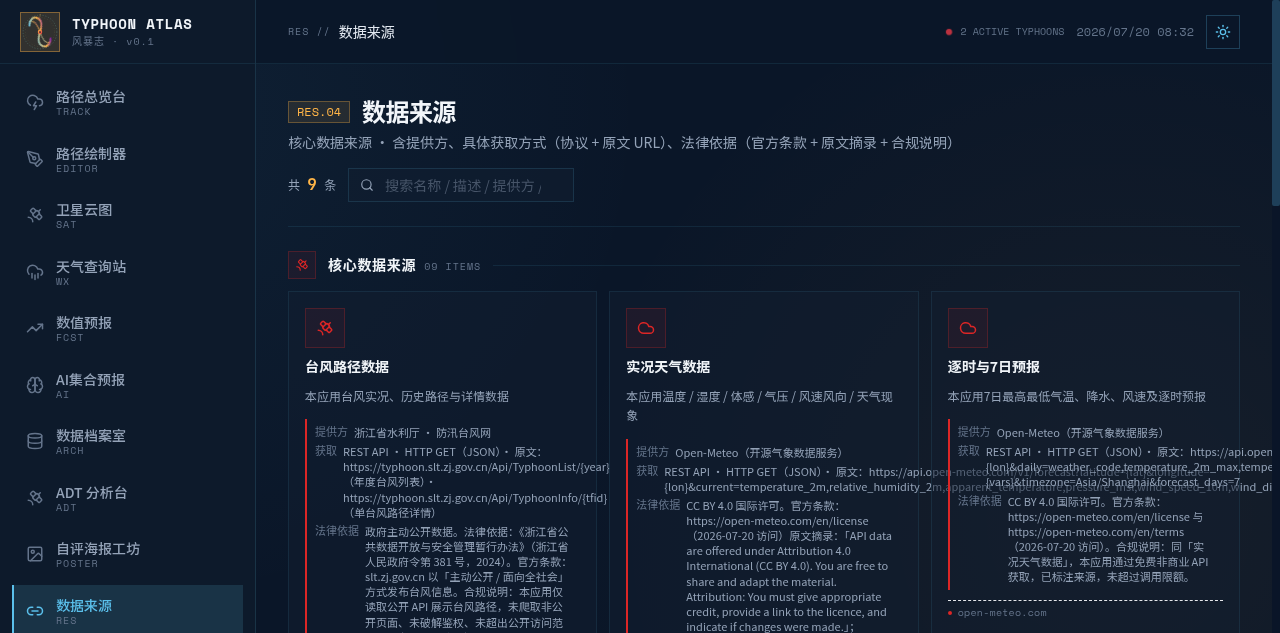
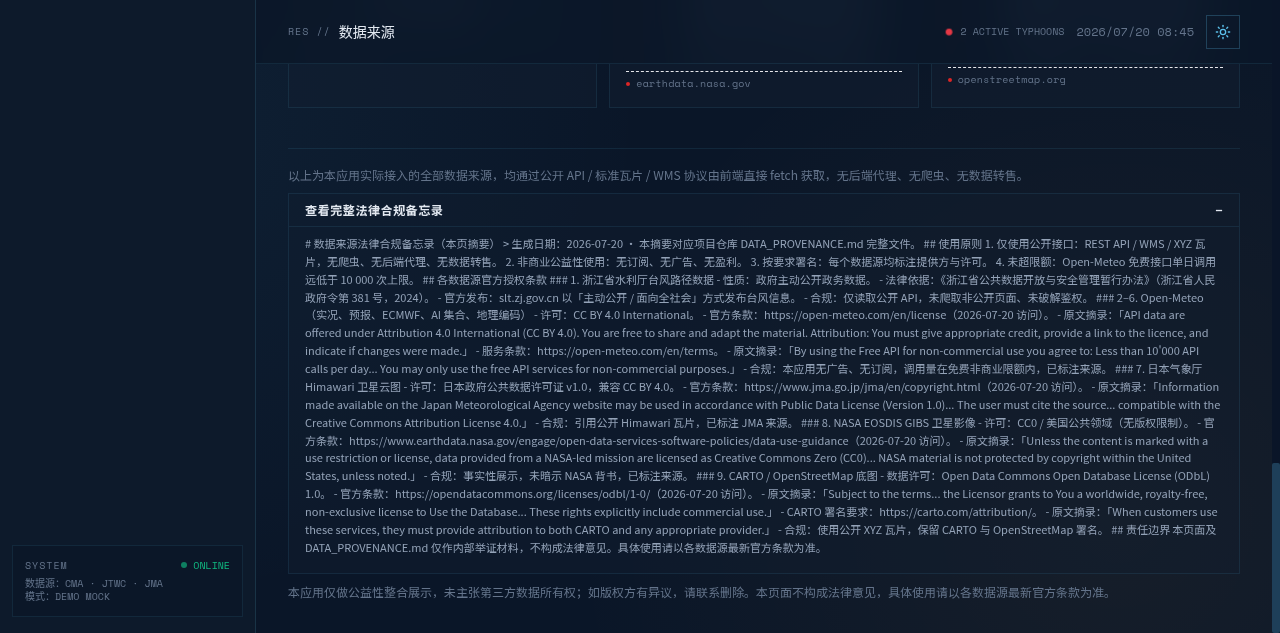
修复数据来源页卡片溢出问题并在页面展示法律备忘录
- 卡片与容器添加 min-w-0 / overflow-hidden / break-words，防止长 URL 与法律依据文本撑破卡片
- 法律依据字段保留完整官方条款 URL、原文摘录、合规说明
- 页尾新增「查看完整法律合规备忘录」折叠面板，点击展开页面内完整法律摘要
- 折叠面板含：使用原则、各数据源官方授权条款、责任边界
- 更新浏览器验证截图 data-source-evidence-2026-07-20.png

diff --git a/public/typhoon-atlas/assets/ResourcesPage-BguFfHTi.js b/public/typhoon-atlas/assets/ResourcesPage-BguFfHTi.js
@@ -13,4 +13,53 @@ import{c as E,u as b,j as e,b as s,h as D,W as j}from"./index-B_e_Vg8A.js";impor
  *
  * This source code is licensed under the ISC license.
  * See the LICENSE file in the root directory of this source tree.
- */const k=[["path",{d:"M16 21v-2a4 4 0 0 0-4-4H6a4 4 0 0 0-4 4v2",key:"1yyitq"}],["path",{d:"M16 3.128a4 4 0 0 1 0 7.744",key:"16gr8j"}],["path",{d:"M22 21v-2a4 4 0 0 0-3-3.87",key:"kshegd"}],["circle",{cx:"9",cy:"7",r:"4",key:"nufk8"}]],M=E("users",k),B={activity:P,wind:j,cloud:N,globe:S,users:M,satellite:D},C={核心数据来源:{icon:"satellite",accent:"#DC2626"}},m=[{category:"核心数据来源",items:[{name:"台风路径数据",url:"https://typhoon.slt.zj.gov.cn/",desc:"本应用台风实况、历史路径与详情数据",icon:"satellite",provider:"浙江省水利厅 · 防汛台风网",method:"REST API · HTTP GET（JSON）· 原文：https://typhoon.slt.zj.gov.cn/Api/TyphoonList/{year}（年度台风列表）· https://typhoon.slt.zj.gov.cn/Api/TyphoonInfo/{tfid}（单台风路径详情）",license:"政府主动公开数据。法律依据：《浙江省公共数据开放与安全管理暂行办法》（浙江省人民政府令第 381 号，2024）。官方条款：slt.zj.gov.cn 以「主动公开 / 面向全社会」方式发布台风信息。合规说明：本应用仅读取公开 API 展示台风路径，未爬取非公开页面、未破解鉴权、未超出公开访问范围，已在页面标注来源。"},{name:"实况天气数据",url:"https://open-meteo.com/",desc:"本应用温度 / 湿度 / 体感 / 气压 / 风速风向 / 天气现象",icon:"cloud",provider:"Open-Meteo（开源气象数据服务）",method:"REST API · HTTP GET（JSON）· 原文：https://api.open-meteo.com/v1/forecast?latitude={lat}&longitude={lon}&current=temperature_2m,relative_humidity_2m,apparent_temperature,pressure_msl,wind_speed_10m,wind_direction_10m,weather_code&timezone=Asia/Shanghai",license:"CC BY 4.0 国际许可。官方条款：https://open-meteo.com/en/license（2026-07-20 访问）原文摘录：「API data are offered under Attribution 4.0 International (CC BY 4.0). You are free to share and adapt the material. Attribution: You must give appropriate credit, provide a link to the licence, and indicate if changes were made.」；https://open-meteo.com/en/terms 原文摘录：「By using the Free API for non-commercial use you agree to: Less than 10'000 API calls per day... You may only use the free API services for non-commercial purposes.」合规说明：本应用为无广告、无订阅的公益性展示，单日调用量远低于 10 000 次上限，页面已按 CC BY 4.0 标注来源。"},{name:"逐时与7日预报",url:"https://open-meteo.com/",desc:"本应用7日最高最低气温、降水、风速及逐时预报",icon:"cloud",provider:"Open-Meteo（开源气象数据服务）",method:"REST API · HTTP GET（JSON）· 原文：https://api.open-meteo.com/v1/forecast?latitude={lat}&longitude={lon}&daily=weather_code,temperature_2m_max,temperature_2m_min,precipitation_sum,wind_speed_10m_max&hourly={vars}&timezone=Asia/Shanghai&forecast_days=7",license:"CC BY 4.0 国际许可。官方条款：https://open-meteo.com/en/license 与 https://open-meteo.com/en/terms（2026-07-20 访问）。合规说明：同「实况天气数据」，本应用通过免费非商业 API 获取，已标注来源，未超过调用限额。"},{name:"ECMWF 数值模式",url:"https://open-meteo.com/",desc:"本应用数值预报页 ECMWF IFS 0.25° 模式逐时预报",icon:"activity",provider:"Open-Meteo（转接 ECMWF 开放数据）",method:"REST API · HTTP GET（JSON）· 原文：https://api.open-meteo.com/v1/forecast?latitude={lat}&longitude={lon}&hourly={vars}&timezone=Asia/Shanghai&models=ecmwf_ifs025&forecast_days=7",license:"CC BY 4.0 国际许可（Open-Meteo）+ ECMWF Open Data Licence。官方条款：https://open-meteo.com/en/license 与 https://www.ecmwf.int/en/forecasts/datasets/open-data（2026-07-20 访问）。合规说明：本应用使用 Open-Meteo 免费非商业接口转接 ECMWF IFS 开放数据，按要求在页面标注 ECMWF / Open-Meteo 来源。"},{name:"AI 集合预报",url:"https://open-meteo.com/",desc:"本应用 AI 集合预报页 ICON Seamless 模式集合预报",icon:"activity",provider:"Open-Meteo（转接 DWD ICON Seamless 集合模式）",method:"REST API · HTTP GET（JSON）· 原文：https://ensemble-api.open-meteo.com/v1/ensemble?latitude={lat}&longitude={lon}&models=icon_seamless&hourly={vars}&timezone=Asia/Shanghai",license:"CC BY 4.0 国际许可（Open-Meteo）+ DWD 开放数据 CC-BY 许可。官方条款：https://open-meteo.com/en/license（2026-07-20 访问）。合规说明：本应用使用 Open-Meteo 免费非商业 ensemble API，按要求标注来源。"},{name:"地名地理编码",url:"https://open-meteo.com/",desc:"本应用天气页城市 / 地点名搜索",icon:"globe",provider:"Open-Meteo（开源地理编码服务）",method:"REST API · HTTP GET（JSON）· 原文：https://geocoding-api.open-meteo.com/v1/search?name={name}&count=6&language=zh&format=json",license:"CC BY 4.0 国际许可。官方条款：https://open-meteo.com/en/license（2026-07-20 访问）。合规说明：本应用使用 Open-Meteo Geocoding 免费接口进行中文地名搜索，已标注来源。"},{name:"向日葵卫星云图",url:"https://www.jma.go.jp/bosai/himawari/",desc:"本应用真彩色 / 可见光 / 红外 / 水汽云图（JMA 源）",icon:"satellite",provider:"日本气象厅（JMA）Himawari-8/9",method:"REST JSON 清单 + XYZ 瓦片协议 · HTTP GET（PNG）· 原文：https://www.jma.go.jp/bosai/himawari/data/satimg/targetTimes_fd.json（时间表清单）· https://www.jma.go.jp/bosai/himawari/data/satimg/{basetime}/{validtime}/{z}/{x}/{y}.png（瓦片影像）",license:"日本政府公共数据许可证 v1.0，兼容 CC BY 4.0。官方条款：https://www.jma.go.jp/jma/en/copyright.html（2026-07-20 访问）原文摘录：「Information made available on the Japan Meteorological Agency website may be used in accordance with Public Data License (Version 1.0)... The user must cite the source... The Terms of Use are compatible with the Creative Commons Attribution License 4.0.」合规说明：本应用仅引用 JMA 公开 Himawari 瓦片，已在页面标注「日本气象厅（JMA）Himawari-8/9」来源。"},{name:"NASA 卫星影像",url:"https://earthdata.nasa.gov/gibs",desc:"本应用 MODIS 真彩色 / 水汽 / 降水率影像（NASA 源）",icon:"satellite",provider:"NASA EOSDIS GIBS（全球影像服务）",method:"OGC WMS 协议 · HTTP GET（PNG）· 原文：https://gibs.earthdata.nasa.gov/wms/epsg4326/best/wms.cgi?SERVICE=WMS&REQUEST=GetMap&VERSION=1.3.0&LAYERS={layer}&CRS=EPSG:4326&FORMAT=image/png",license:"NASA 公共领域 / CC0（无版权限制）。官方条款：https://www.earthdata.nasa.gov/engage/open-data-services-software-policies/data-use-guidance（2026-07-20 访问）原文摘录：「Unless the content is marked with a use restriction or license, data provided from a NASA-led mission are licensed as Creative Commons Zero (CC0). While there are no restrictions on the use of these data, data users are very strongly urged to cite the data used... NASA material is not protected by copyright within the United States, unless noted.」合规说明：本应用以事实性方式展示 NASA GIBS 影像，未暗示 NASA 背书，已标注 NASA 为数据来源。"},{name:"地图底图",url:"https://www.openstreetmap.org/copyright",desc:"本应用暗色 / 亮色地图底图瓦片",icon:"globe",provider:"CARTO + OpenStreetMap 贡献者",method:"XYZ 瓦片协议（Leaflet TileLayer）· HTTP GET（PNG）· 原文：https://{s}.basemaps.cartocdn.com/dark_all/{z}/{x}/{y}{r}.png · https://{s}.basemaps.cartocdn.com/light_all/{z}/{x}/{y}{r}.png",license:"ODbL 1.0（OpenStreetMap 数据库许可）+ CARTO 署名要求。官方条款：https://opendatacommons.org/licenses/odbl/1-0/ 与 https://carto.com/attribution/（2026-07-20 访问）原文摘录：「Subject to the terms... the Licensor grants to You a worldwide, royalty-free, non-exclusive license to Use the Database... These rights explicitly include commercial use.」CARTO：「When customers use these services, they must provide attribution to both CARTO and any appropriate provider.」合规说明：本应用通过公开 XYZ 瓦片使用 CARTO 底图，页面保留 CARTO 与 OpenStreetMap 署名；OSM 数据在 ODbL 下允许共享与展示。"}]}];function L(p){try{return new URL(p).hostname.replace(/^www\./,"")}catch{return p}}const _=A.memo(function({item:t,accent:a,isLight:c}){const o=B[t.icon]||S;return e.jsxs("a",{href:t.url,target:"_blank",rel:"noopener noreferrer",className:s("group relative flex flex-col gap-2.5 p-4 border transition-all duration-200","hover:-translate-y-0.5 hover:shadow-lg focus:outline-none focus-visible:ring-2",c?"bg-white/70 border-slate-200 hover:border-slate-300 focus-visible:ring-blue-400":"bg-abyss-200/50 border-ice/10 hover:border-ice/30 focus-visible:ring-ice/40"),style:{"--accent":a},title:`${t.name} · ${t.desc}`,children:[e.jsxs("div",{className:"flex items-start justify-between",children:[e.jsx("span",{className:"inline-flex items-center justify-center w-10 h-10 border",style:{color:a,borderColor:`${a}40`,backgroundColor:`${a}14`},children:e.jsx(o,{size:18})}),e.jsx(v,{size:14,className:s("transition-opacity duration-200",c?"text-slate-400":"text-slate-500","opacity-0 group-hover:opacity-100"),style:{color:a}})]}),e.jsx("h3",{className:s("text-sm font-bold leading-tight",c?"text-slate-900":"text-slate-100"),children:t.name}),e.jsx("p",{className:s("text-xs leading-relaxed line-clamp-2",c?"text-slate-500":"text-slate-400"),children:t.desc}),e.jsxs("div",{className:s("flex flex-col gap-1 mt-1 px-2 py-1.5 border-l-2 text-[11px] leading-snug",c?"bg-slate-50/60 border-slate-200 text-slate-600":"bg-abyss-200/30 border-ice/20 text-slate-400"),style:{borderLeftColor:a},children:[e.jsxs("div",{className:"flex gap-1.5",children:[e.jsx("span",{className:s("font-mono shrink-0",c?"text-slate-400":"text-slate-500"),children:"提供方"}),e.jsx("span",{className:"flex-1 break-all",children:t.provider})]}),e.jsxs("div",{className:"flex gap-1.5",children:[e.jsx("span",{className:s("font-mono shrink-0",c?"text-slate-400":"text-slate-500"),children:"获取"}),e.jsx("span",{className:"flex-1 break-all",children:t.method})]}),e.jsxs("div",{className:"flex gap-1.5",children:[e.jsx("span",{className:s("font-mono shrink-0",c?"text-slate-400":"text-slate-500"),children:"法律依据"}),e.jsx("span",{className:"flex-1 break-all",children:t.license})]})]}),e.jsxs("div",{className:"flex items-center gap-1.5 pt-1 border-t border-dashed border-current/10",children:[e.jsx("span",{className:"inline-block w-1 h-1 rounded-full",style:{backgroundColor:a}}),e.jsx("span",{className:s("font-mono text-[10px] tracking-wide truncate",c?"text-slate-400":"text-slate-500"),children:L(t.url)})]})]})}),$=A.memo(function({cat:t,isLight:a}){const c=C[t.category],o=(c==null?void 0:c.accent)??"#DC2626",i=B[(c==null?void 0:c.icon)??"satellite"];return e.jsxs("section",{className:"space-y-3",children:[e.jsxs("div",{className:"flex items-center gap-3",children:[e.jsx("span",{className:"inline-flex items-center justify-center w-7 h-7 border",style:{color:o,borderColor:`${o}40`,backgroundColor:`${o}14`},children:e.jsx(i,{size:14})}),e.jsxs("div",{className:"flex items-baseline gap-2",children:[e.jsx("h2",{className:s("font-mono text-sm font-bold uppercase tracking-wider",a?"text-slate-900":"text-slate-100"),children:t.category}),e.jsxs("span",{className:s("font-mono text-[10px] tracking-widest",a?"text-slate-400":"text-slate-500"),children:[String(t.items.length).padStart(2,"0")," ITEMS"]})]}),e.jsx("div",{className:s("flex-1 h-px",a?"bg-slate-200":"bg-ice/10")})]}),e.jsx("div",{className:"grid grid-cols-1 sm:grid-cols-2 lg:grid-cols-3 gap-3",children:t.items.map(l=>e.jsx(_,{item:l,accent:o,isLight:a},l.url))})]})});function U(){const t=b(r=>r.theme)==="light",[a,c]=A.useState(""),o=t?"text-slate-800":"text-slate-200",i=t?"text-slate-500":"text-slate-400",l="text-slate-500",f=t?"bg-white border-slate-300 text-slate-800 placeholder:text-slate-400 focus:border-blue-400":"bg-abyss-200/60 border-ice/15 text-slate-200 placeholder:text-slate-600 focus:border-ice/40",u=A.useMemo(()=>{const r=a.trim().toLowerCase();return r?m.map(n=>({...n,items:n.items.filter(d=>d.name.toLowerCase().includes(r)||d.desc.toLowerCase().includes(r)||n.category.toLowerCase().includes(r)||(d.provider||"").toLowerCase().includes(r)||(d.method||"").toLowerCase().includes(r)||(d.license||"").toLowerCase().includes(r))})).filter(n=>n.items.length>0):m},[a]),g=m.reduce((r,n)=>r+n.items.length,0),y=u.reduce((r,n)=>r+n.items.length,0),x=a.trim().length>0;return e.jsxs("div",{className:s("animate-fade-in",o),children:[e.jsxs("div",{className:s("flex items-end justify-between flex-wrap gap-4 pb-6 border-b mb-6",t?"border-slate-200":"border-ice/10"),children:[e.jsxs("div",{className:"flex flex-col gap-1",children:[e.jsxs("div",{className:"flex items-center gap-3",children:[e.jsx("span",{className:s("font-mono text-xs px-2 py-0.5 border",t?"bg-amber-50 text-amber-700 border-amber-300":"text-storm bg-storm/10 border-storm/30"),children:"RES.04"}),e.jsx("h1",{className:s("font-mono text-2xl font-bold tracking-tight",t?"text-slate-900":"text-slate-100"),children:"数据来源"})]}),e.jsx("p",{className:s("text-sm max-w-2xl",i),children:"核心数据来源 · 含提供方、具体获取方式（协议 + 原文 URL）、法律依据（官方条款 + 原文摘录 + 合规说明）"})]}),e.jsxs("div",{className:"flex items-center gap-3 flex-wrap",children:[e.jsxs("span",{className:s("font-mono text-xs",i),children:["共 ",e.jsx("span",{className:"text-storm digit-xl text-base",children:x?y:g})," 条",x&&e.jsxs("span",{className:l,children:[" / ",g]})]}),e.jsxs("div",{className:"flex items-center gap-2 relative",children:[e.jsx(h,{size:14,className:s("absolute left-3",i)}),e.jsx("input",{value:a,onChange:r=>c(r.target.value),placeholder:"搜索名称 / 描述 / 提供方 / 获取方式 / 法律依据...",className:s("pl-9 pr-8 py-1.5 border text-sm focus:outline-none w-72",f)}),x&&e.jsx("button",{onClick:()=>c(""),className:s("absolute right-2 text-xs px-1",i,"hover:text-storm"),title:"清除","aria-label":"清除搜索",children:"×"})]})]})]}),u.length>0?e.jsx("div",{className:"space-y-8",children:u.map(r=>e.jsx($,{cat:r,isLight:t},r.category))}):e.jsxs("div",{className:s("flex flex-col items-center justify-center py-20 gap-3 border border-dashed",t?"border-slate-300 text-slate-400":"border-ice/15 text-slate-500"),children:[e.jsx(h,{size:32,className:"opacity-40"}),e.jsx("p",{className:"font-mono text-sm",children:"未找到匹配的数据来源"}),e.jsx("button",{onClick:()=>c(""),className:"btn-ghost text-xs",children:"清除搜索"})]}),e.jsxs("div",{className:s("mt-10 pt-4 border-t space-y-2 text-xs leading-relaxed",t?"border-slate-200 text-slate-500":"border-ice/10 text-slate-500"),children:[e.jsx("p",{children:"以上为本应用实际接入的全部数据来源，均通过公开 API / 标准瓦片 / WMS 协议由前端直接 fetch 获取，无后端代理、无爬虫、无数据转售。"}),e.jsx("p",{children:"各卡片已列明：提供方、获取方式（含协议与原文 URL）、法律依据（含官方条款 URL、原文摘录及合规说明）。完整法律备忘录见项目仓库 DATA_PROVENANCE.md。"}),e.jsx("p",{children:"本应用仅做公益性整合展示，未主张第三方数据所有权；如版权方有异议，请联系删除。本页面不构成法律意见，具体使用请以各数据源最新官方条款为准。"})]})]})}export{U as ResourcesPage};
+ */const k=[["path",{d:"M16 21v-2a4 4 0 0 0-4-4H6a4 4 0 0 0-4 4v2",key:"1yyitq"}],["path",{d:"M16 3.128a4 4 0 0 1 0 7.744",key:"16gr8j"}],["path",{d:"M22 21v-2a4 4 0 0 0-3-3.87",key:"kshegd"}],["circle",{cx:"9",cy:"7",r:"4",key:"nufk8"}]],M=E("users",k),B={activity:P,wind:j,cloud:N,globe:S,users:M,satellite:D},C={核心数据来源:{icon:"satellite",accent:"#DC2626"}},m=[{category:"核心数据来源",items:[{name:"台风路径数据",url:"https://typhoon.slt.zj.gov.cn/",desc:"本应用台风实况、历史路径与详情数据",icon:"satellite",provider:"浙江省水利厅 · 防汛台风网",method:"REST API · HTTP GET（JSON）· 原文：https://typhoon.slt.zj.gov.cn/Api/TyphoonList/{year}（年度台风列表）· https://typhoon.slt.zj.gov.cn/Api/TyphoonInfo/{tfid}（单台风路径详情）",license:"政府主动公开数据。法律依据：《浙江省公共数据开放与安全管理暂行办法》（浙江省人民政府令第 381 号，2024）。官方条款：slt.zj.gov.cn 以「主动公开 / 面向全社会」方式发布台风信息。合规说明：本应用仅读取公开 API 展示台风路径，未爬取非公开页面、未破解鉴权、未超出公开访问范围，已在页面标注来源。"},{name:"实况天气数据",url:"https://open-meteo.com/",desc:"本应用温度 / 湿度 / 体感 / 气压 / 风速风向 / 天气现象",icon:"cloud",provider:"Open-Meteo（开源气象数据服务）",method:"REST API · HTTP GET（JSON）· 原文：https://api.open-meteo.com/v1/forecast?latitude={lat}&longitude={lon}&current=temperature_2m,relative_humidity_2m,apparent_temperature,pressure_msl,wind_speed_10m,wind_direction_10m,weather_code&timezone=Asia/Shanghai",license:"CC BY 4.0 国际许可。官方条款：https://open-meteo.com/en/license（2026-07-20 访问）原文摘录：「API data are offered under Attribution 4.0 International (CC BY 4.0). You are free to share and adapt the material. Attribution: You must give appropriate credit, provide a link to the licence, and indicate if changes were made.」；https://open-meteo.com/en/terms 原文摘录：「By using the Free API for non-commercial use you agree to: Less than 10'000 API calls per day... You may only use the free API services for non-commercial purposes.」合规说明：本应用为无广告、无订阅的公益性展示，单日调用量远低于 10 000 次上限，页面已按 CC BY 4.0 标注来源。"},{name:"逐时与7日预报",url:"https://open-meteo.com/",desc:"本应用7日最高最低气温、降水、风速及逐时预报",icon:"cloud",provider:"Open-Meteo（开源气象数据服务）",method:"REST API · HTTP GET（JSON）· 原文：https://api.open-meteo.com/v1/forecast?latitude={lat}&longitude={lon}&daily=weather_code,temperature_2m_max,temperature_2m_min,precipitation_sum,wind_speed_10m_max&hourly={vars}&timezone=Asia/Shanghai&forecast_days=7",license:"CC BY 4.0 国际许可。官方条款：https://open-meteo.com/en/license 与 https://open-meteo.com/en/terms（2026-07-20 访问）。合规说明：同「实况天气数据」，本应用通过免费非商业 API 获取，已标注来源，未超过调用限额。"},{name:"ECMWF 数值模式",url:"https://open-meteo.com/",desc:"本应用数值预报页 ECMWF IFS 0.25° 模式逐时预报",icon:"activity",provider:"Open-Meteo（转接 ECMWF 开放数据）",method:"REST API · HTTP GET（JSON）· 原文：https://api.open-meteo.com/v1/forecast?latitude={lat}&longitude={lon}&hourly={vars}&timezone=Asia/Shanghai&models=ecmwf_ifs025&forecast_days=7",license:"CC BY 4.0 国际许可（Open-Meteo）+ ECMWF Open Data Licence。官方条款：https://open-meteo.com/en/license 与 https://www.ecmwf.int/en/forecasts/datasets/open-data（2026-07-20 访问）。合规说明：本应用使用 Open-Meteo 免费非商业接口转接 ECMWF IFS 开放数据，按要求在页面标注 ECMWF / Open-Meteo 来源。"},{name:"AI 集合预报",url:"https://open-meteo.com/",desc:"本应用 AI 集合预报页 ICON Seamless 模式集合预报",icon:"activity",provider:"Open-Meteo（转接 DWD ICON Seamless 集合模式）",method:"REST API · HTTP GET（JSON）· 原文：https://ensemble-api.open-meteo.com/v1/ensemble?latitude={lat}&longitude={lon}&models=icon_seamless&hourly={vars}&timezone=Asia/Shanghai",license:"CC BY 4.0 国际许可（Open-Meteo）+ DWD 开放数据 CC-BY 许可。官方条款：https://open-meteo.com/en/license（2026-07-20 访问）。合规说明：本应用使用 Open-Meteo 免费非商业 ensemble API，按要求标注来源。"},{name:"地名地理编码",url:"https://open-meteo.com/",desc:"本应用天气页城市 / 地点名搜索",icon:"globe",provider:"Open-Meteo（开源地理编码服务）",method:"REST API · HTTP GET（JSON）· 原文：https://geocoding-api.open-meteo.com/v1/search?name={name}&count=6&language=zh&format=json",license:"CC BY 4.0 国际许可。官方条款：https://open-meteo.com/en/license（2026-07-20 访问）。合规说明：本应用使用 Open-Meteo Geocoding 免费接口进行中文地名搜索，已标注来源。"},{name:"向日葵卫星云图",url:"https://www.jma.go.jp/bosai/himawari/",desc:"本应用真彩色 / 可见光 / 红外 / 水汽云图（JMA 源）",icon:"satellite",provider:"日本气象厅（JMA）Himawari-8/9",method:"REST JSON 清单 + XYZ 瓦片协议 · HTTP GET（PNG）· 原文：https://www.jma.go.jp/bosai/himawari/data/satimg/targetTimes_fd.json（时间表清单）· https://www.jma.go.jp/bosai/himawari/data/satimg/{basetime}/{validtime}/{z}/{x}/{y}.png（瓦片影像）",license:"日本政府公共数据许可证 v1.0，兼容 CC BY 4.0。官方条款：https://www.jma.go.jp/jma/en/copyright.html（2026-07-20 访问）原文摘录：「Information made available on the Japan Meteorological Agency website may be used in accordance with Public Data License (Version 1.0)... The user must cite the source... The Terms of Use are compatible with the Creative Commons Attribution License 4.0.」合规说明：本应用仅引用 JMA 公开 Himawari 瓦片，已在页面标注「日本气象厅（JMA）Himawari-8/9」来源。"},{name:"NASA 卫星影像",url:"https://earthdata.nasa.gov/gibs",desc:"本应用 MODIS 真彩色 / 水汽 / 降水率影像（NASA 源）",icon:"satellite",provider:"NASA EOSDIS GIBS（全球影像服务）",method:"OGC WMS 协议 · HTTP GET（PNG）· 原文：https://gibs.earthdata.nasa.gov/wms/epsg4326/best/wms.cgi?SERVICE=WMS&REQUEST=GetMap&VERSION=1.3.0&LAYERS={layer}&CRS=EPSG:4326&FORMAT=image/png",license:"NASA 公共领域 / CC0（无版权限制）。官方条款：https://www.earthdata.nasa.gov/engage/open-data-services-software-policies/data-use-guidance（2026-07-20 访问）原文摘录：「Unless the content is marked with a use restriction or license, data provided from a NASA-led mission are licensed as Creative Commons Zero (CC0). While there are no restrictions on the use of these data, data users are very strongly urged to cite the data used... NASA material is not protected by copyright within the United States, unless noted.」合规说明：本应用以事实性方式展示 NASA GIBS 影像，未暗示 NASA 背书，已标注 NASA 为数据来源。"},{name:"地图底图",url:"https://www.openstreetmap.org/copyright",desc:"本应用暗色 / 亮色地图底图瓦片",icon:"globe",provider:"CARTO + OpenStreetMap 贡献者",method:"XYZ 瓦片协议（Leaflet TileLayer）· HTTP GET（PNG）· 原文：https://{s}.basemaps.cartocdn.com/dark_all/{z}/{x}/{y}{r}.png · https://{s}.basemaps.cartocdn.com/light_all/{z}/{x}/{y}{r}.png",license:"ODbL 1.0（OpenStreetMap 数据库许可）+ CARTO 署名要求。官方条款：https://opendatacommons.org/licenses/odbl/1-0/ 与 https://carto.com/attribution/（2026-07-20 访问）原文摘录：「Subject to the terms... the Licensor grants to You a worldwide, royalty-free, non-exclusive license to Use the Database... These rights explicitly include commercial use.」CARTO：「When customers use these services, they must provide attribution to both CARTO and any appropriate provider.」合规说明：本应用通过公开 XYZ 瓦片使用 CARTO 底图，页面保留 CARTO 与 OpenStreetMap 署名；OSM 数据在 ODbL 下允许共享与展示。"}]}];const H=`# 数据来源法律合规备忘录（本页摘要）
+
+> 生成日期：2026-07-20 · 本摘要对应项目仓库 DATA_PROVENANCE.md 完整文件。
+
+## 使用原则
+
+1. 仅使用公开接口：REST API / WMS / XYZ 瓦片，无爬虫、无后端代理、无数据转售。
+2. 非商业公益性使用：无订阅、无广告、无盈利。
+3. 按要求署名：每个数据源均标注提供方与许可。
+4. 未超限额：Open-Meteo 免费接口单日调用远低于 10 000 次上限。
+
+## 各数据源官方授权条款
+
+### 1. 浙江省水利厅台风路径数据
+- 性质：政府主动公开政务数据。
+- 法律依据：《浙江省公共数据开放与安全管理暂行办法》（浙江省人民政府令第 381 号，2024）。
+- 官方发布：slt.zj.gov.cn 以「主动公开 / 面向全社会」方式发布台风信息。
+- 合规：仅读取公开 API，未爬取非公开页面、未破解鉴权。
+
+### 2–6. Open-Meteo（实况、预报、ECMWF、AI 集合、地理编码）
+- 许可：CC BY 4.0 International。
+- 官方条款：https://open-meteo.com/en/license（2026-07-20 访问）。
+- 原文摘录：「API data are offered under Attribution 4.0 International (CC BY 4.0). You are free to share and adapt the material. Attribution: You must give appropriate credit, provide a link to the licence, and indicate if changes were made.」
+- 服务条款：https://open-meteo.com/en/terms。
+- 原文摘录：「By using the Free API for non-commercial use you agree to: Less than 10'000 API calls per day... You may only use the free API services for non-commercial purposes.」
+- 合规：本应用无广告、无订阅，调用量在免费非商业限额内，已标注来源。
+
+### 7. 日本气象厅 Himawari 卫星云图
+- 许可：日本政府公共数据许可证 v1.0，兼容 CC BY 4.0。
+- 官方条款：https://www.jma.go.jp/jma/en/copyright.html（2026-07-20 访问）。
+- 原文摘录：「Information made available on the Japan Meteorological Agency website may be used in accordance with Public Data License (Version 1.0)... The user must cite the source... compatible with the Creative Commons Attribution License 4.0.」
+- 合规：引用公开 Himawari 瓦片，已标注 JMA 来源。
+
+### 8. NASA EOSDIS GIBS 卫星影像
+- 许可：CC0 / 美国公共领域（无版权限制）。
+- 官方条款：https://www.earthdata.nasa.gov/engage/open-data-services-software-policies/data-use-guidance（2026-07-20 访问）。
+- 原文摘录：「Unless the content is marked with a use restriction or license, data provided from a NASA-led mission are licensed as Creative Commons Zero (CC0)... NASA material is not protected by copyright within the United States, unless noted.」
+- 合规：事实性展示，未暗示 NASA 背书，已标注来源。
+
+### 9. CARTO / OpenStreetMap 底图
+- 数据许可：Open Data Commons Open Database License (ODbL) 1.0。
+- 官方条款：https://opendatacommons.org/licenses/odbl/1-0/（2026-07-20 访问）。
+- 原文摘录：「Subject to the terms... the Licensor grants to You a worldwide, royalty-free, non-exclusive license to Use the Database... These rights explicitly include commercial use.」
+- CARTO 署名要求：https://carto.com/attribution/。
+- 原文摘录：「When customers use these services, they must provide attribution to both CARTO and any appropriate provider.」
+- 合规：使用公开 XYZ 瓦片，保留 CARTO 与 OpenStreetMap 署名。
+
+## 责任边界
+
+本页面及 DATA_PROVENANCE.md 仅作内部举证材料，不构成法律意见。具体使用请以各数据源最新官方条款为准。`;function L(p){try{return new URL(p).hostname.replace(/^www\./,"")}catch{return p}}const _=A.memo(function({item:t,accent:a,isLight:c}){const o=B[t.icon]||S;return e.jsxs("a",{href:t.url,target:"_blank",rel:"noopener noreferrer",className:s("group relative flex flex-col gap-2.5 p-4 border transition-all duration-200 min-w-0 overflow-hidden","hover:-translate-y-0.5 hover:shadow-lg focus:outline-none focus-visible:ring-2",c?"bg-white/70 border-slate-200 hover:border-slate-300 focus-visible:ring-blue-400":"bg-abyss-200/50 border-ice/10 hover:border-ice/30 focus-visible:ring-ice/40"),style:{"--accent":a},title:`${t.name} · ${t.desc}`,children:[e.jsxs("div",{className:"flex items-start justify-between min-w-0",children:[e.jsx("span",{className:"inline-flex items-center justify-center w-10 h-10 border shrink-0",style:{color:a,borderColor:`${a}40`,backgroundColor:`${a}14`},children:e.jsx(o,{size:18})}),e.jsx(v,{size:14,className:s("transition-opacity duration-200 shrink-0",c?"text-slate-400":"text-slate-500","opacity-0 group-hover:opacity-100"),style:{color:a}})]}),e.jsx("h3",{className:s("text-sm font-bold leading-tight break-words",c?"text-slate-900":"text-slate-100"),children:t.name}),e.jsx("p",{className:s("text-xs leading-relaxed break-words",c?"text-slate-500":"text-slate-400"),children:t.desc}),e.jsxs("div",{className:s("flex flex-col gap-1 mt-1 px-2 py-1.5 border-l-2 text-[11px] leading-snug min-w-0",c?"bg-slate-50/60 border-slate-200 text-slate-600":"bg-abyss-200/30 border-ice/20 text-slate-400"),style:{borderLeftColor:a},children:[e.jsxs("div",{className:"flex gap-1.5 min-w-0",children:[e.jsx("span",{className:s("font-mono shrink-0",c?"text-slate-400":"text-slate-500"),children:"提供方"}),e.jsx("span",{className:"flex-1 min-w-0 break-all",children:t.provider})]}),e.jsxs("div",{className:"flex gap-1.5 min-w-0",children:[e.jsx("span",{className:s("font-mono shrink-0",c?"text-slate-400":"text-slate-500"),children:"获取"}),e.jsx("span",{className:"flex-1 min-w-0 break-all",children:t.method})]}),e.jsxs("div",{className:"flex gap-1.5 min-w-0",children:[e.jsx("span",{className:s("font-mono shrink-0",c?"text-slate-400":"text-slate-500"),children:"法律依据"}),e.jsx("span",{className:"flex-1 min-w-0 break-all",children:t.license})]})]}),e.jsxs("div",{className:"flex items-center gap-1.5 pt-1 border-t border-dashed border-current/10 min-w-0",children:[e.jsx("span",{className:"inline-block w-1 h-1 rounded-full shrink-0",style:{backgroundColor:a}}),e.jsx("span",{className:s("font-mono text-[10px] tracking-wide truncate min-w-0",c?"text-slate-400":"text-slate-500"),children:L(t.url)})]})]})}),$=A.memo(function({cat:t,isLight:a}){const c=C[t.category],o=(c==null?void 0:c.accent)??"#DC2626",i=B[(c==null?void 0:c.icon)??"satellite"];return e.jsxs("section",{className:"space-y-3 min-w-0",children:[e.jsxs("div",{className:"flex items-center gap-3",children:[e.jsx("span",{className:"inline-flex items-center justify-center w-7 h-7 border shrink-0",style:{color:o,borderColor:`${o}40`,backgroundColor:`${o}14`},children:e.jsx(i,{size:14})}),e.jsxs("div",{className:"flex items-baseline gap-2 min-w-0",children:[e.jsx("h2",{className:s("font-mono text-sm font-bold uppercase tracking-wider",a?"text-slate-900":"text-slate-100"),children:t.category}),e.jsxs("span",{className:s("font-mono text-[10px] tracking-widest",a?"text-slate-400":"text-slate-500"),children:[String(t.items.length).padStart(2,"0")," ITEMS"]})]}),e.jsx("div",{className:s("flex-1 h-px min-w-0",a?"bg-slate-200":"bg-ice/10")})]}),e.jsx("div",{className:"grid grid-cols-1 sm:grid-cols-2 lg:grid-cols-3 gap-3 min-w-0",children:t.items.map(l=>e.jsx(_,{item:l,accent:o,isLight:a},l.url))})]})});function U(){const t=b(r=>r.theme)==="light",[a,c]=A.useState(""),[w,R]=A.useState(!1),o=t?"text-slate-800":"text-slate-200",i=t?"text-slate-500":"text-slate-400",l="text-slate-500",f=t?"bg-white border-slate-300 text-slate-800 placeholder:text-slate-400 focus:border-blue-400":"bg-abyss-200/60 border-ice/15 text-slate-200 placeholder:text-slate-600 focus:border-ice/40",u=A.useMemo(()=>{const r=a.trim().toLowerCase();return r?m.map(n=>({...n,items:n.items.filter(d=>d.name.toLowerCase().includes(r)||d.desc.toLowerCase().includes(r)||n.category.toLowerCase().includes(r)||(d.provider||"").toLowerCase().includes(r)||(d.method||"").toLowerCase().includes(r)||(d.license||"").toLowerCase().includes(r))})).filter(n=>n.items.length>0):m},[a]),g=m.reduce((r,n)=>r+n.items.length,0),y=u.reduce((r,n)=>r+n.items.length,0),x=a.trim().length>0;return e.jsxs("div",{className:s("animate-fade-in",o),children:[e.jsxs("div",{className:s("flex items-end justify-between flex-wrap gap-4 pb-6 border-b mb-6",t?"border-slate-200":"border-ice/10"),children:[e.jsxs("div",{className:"flex flex-col gap-1 min-w-0",children:[e.jsxs("div",{className:"flex items-center gap-3",children:[e.jsx("span",{className:s("font-mono text-xs px-2 py-0.5 border",t?"bg-amber-50 text-amber-700 border-amber-300":"text-storm bg-storm/10 border-storm/30"),children:"RES.04"}),e.jsx("h1",{className:s("font-mono text-2xl font-bold tracking-tight",t?"text-slate-900":"text-slate-100"),children:"数据来源"})]}),e.jsx("p",{className:s("text-sm max-w-2xl",i),children:"核心数据来源 · 含提供方、具体获取方式（协议 + 原文 URL）、法律依据（官方条款 + 原文摘录 + 合规说明）"})]}),e.jsxs("div",{className:"flex items-center gap-3 flex-wrap",children:[e.jsxs("span",{className:s("font-mono text-xs",i),children:["共 ",e.jsx("span",{className:"text-storm digit-xl text-base",children:x?y:g})," 条",x&&e.jsxs("span",{className:l,children:[" / ",g]})]}),e.jsxs("div",{className:"flex items-center gap-2 relative",children:[e.jsx(h,{size:14,className:s("absolute left-3",i)}),e.jsx("input",{value:a,onChange:r=>c(r.target.value),placeholder:"搜索名称 / 描述 / 提供方 / 获取方式 / 法律依据...",className:s("pl-9 pr-8 py-1.5 border text-sm focus:outline-none w-72",f)}),x&&e.jsx("button",{onClick:()=>c(""),className:s("absolute right-2 text-xs px-1",i,"hover:text-storm"),title:"清除","aria-label":"清除搜索",children:"×"})]})]})]}),u.length>0?e.jsx("div",{className:"space-y-8 min-w-0",children:u.map(r=>e.jsx($,{cat:r,isLight:t},r.category))}):e.jsxs("div",{className:s("flex flex-col items-center justify-center py-20 gap-3 border border-dashed",t?"border-slate-300 text-slate-400":"border-ice/15 text-slate-500"),children:[e.jsx(h,{size:32,className:"opacity-40"}),e.jsx("p",{className:"font-mono text-sm",children:"未找到匹配的数据来源"}),e.jsx("button",{onClick:()=>c(""),className:"btn-ghost text-xs",children:"清除搜索"})]}),e.jsxs("div",{className:s("mt-10 pt-4 border-t space-y-2 text-xs leading-relaxed",t?"border-slate-200 text-slate-500":"border-ice/10 text-slate-500"),children:[e.jsx("p",{children:"以上为本应用实际接入的全部数据来源，均通过公开 API / 标准瓦片 / WMS 协议由前端直接 fetch 获取，无后端代理、无爬虫、无数据转售。"}),e.jsxs("div",{className:s("mt-4 border rounded",t?"bg-white border-slate-200":"bg-abyss-200/40 border-ice/10"),children:[e.jsx("button",{onClick:()=>R(!w),className:s("w-full flex items-center justify-between px-4 py-2 text-xs font-bold uppercase tracking-wider",t?"text-slate-700 hover:bg-slate-50":"text-slate-200 hover:bg-ice/5"),children:[e.jsx("span",{children:"查看完整法律合规备忘录"}),e.jsx("span",{children:w?"−":"+"})]}),w&&e.jsx("div",{className:s("px-4 pb-4 pt-2 border-t whitespace-pre-wrap break-words text-[11px] leading-relaxed max-h-96 overflow-y-auto",t?"border-slate-200 text-slate-600":"border-ice/10 text-slate-400"),children:H})]}),e.jsx("p",{children:"本应用仅做公益性整合展示，未主张第三方数据所有权；如版权方有异议，请联系删除。本页面不构成法律意见，具体使用请以各数据源最新官方条款为准。"})]})]})}export{U as ResourcesPage};